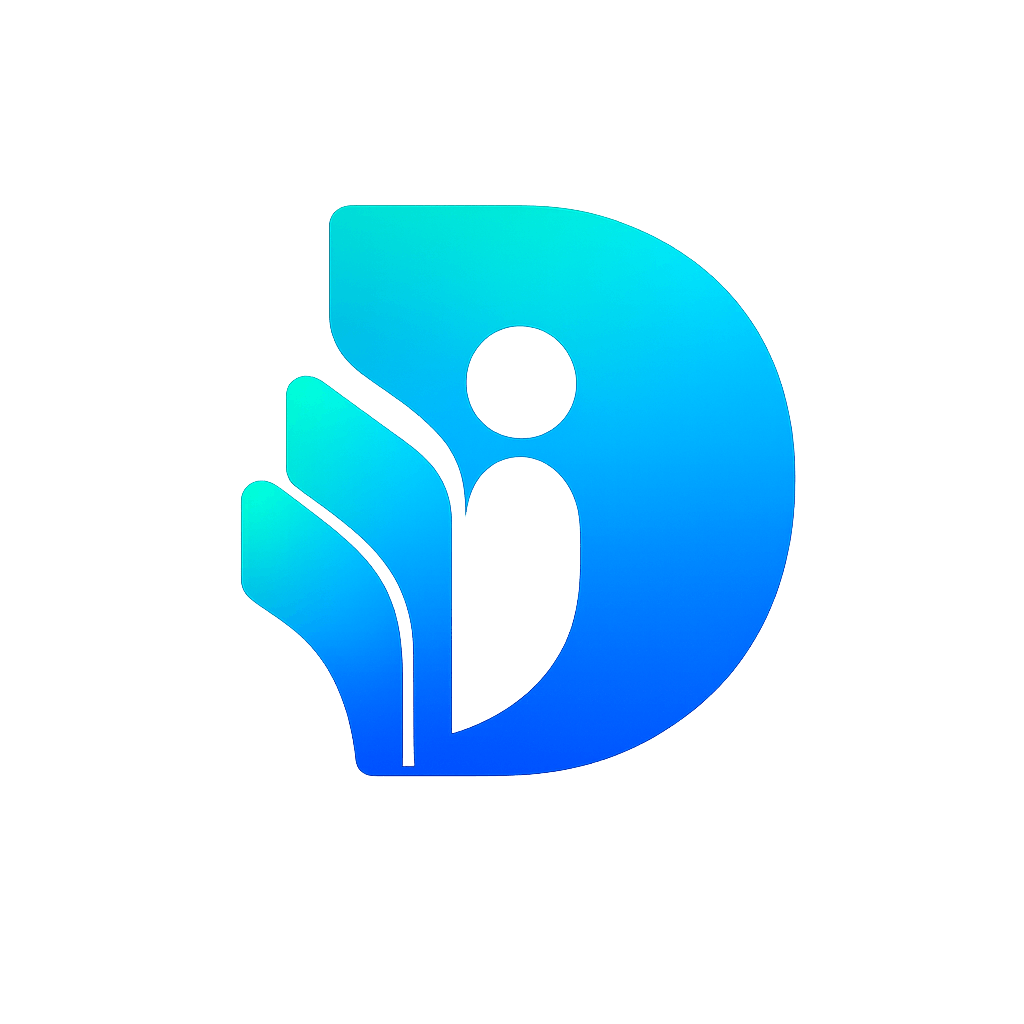
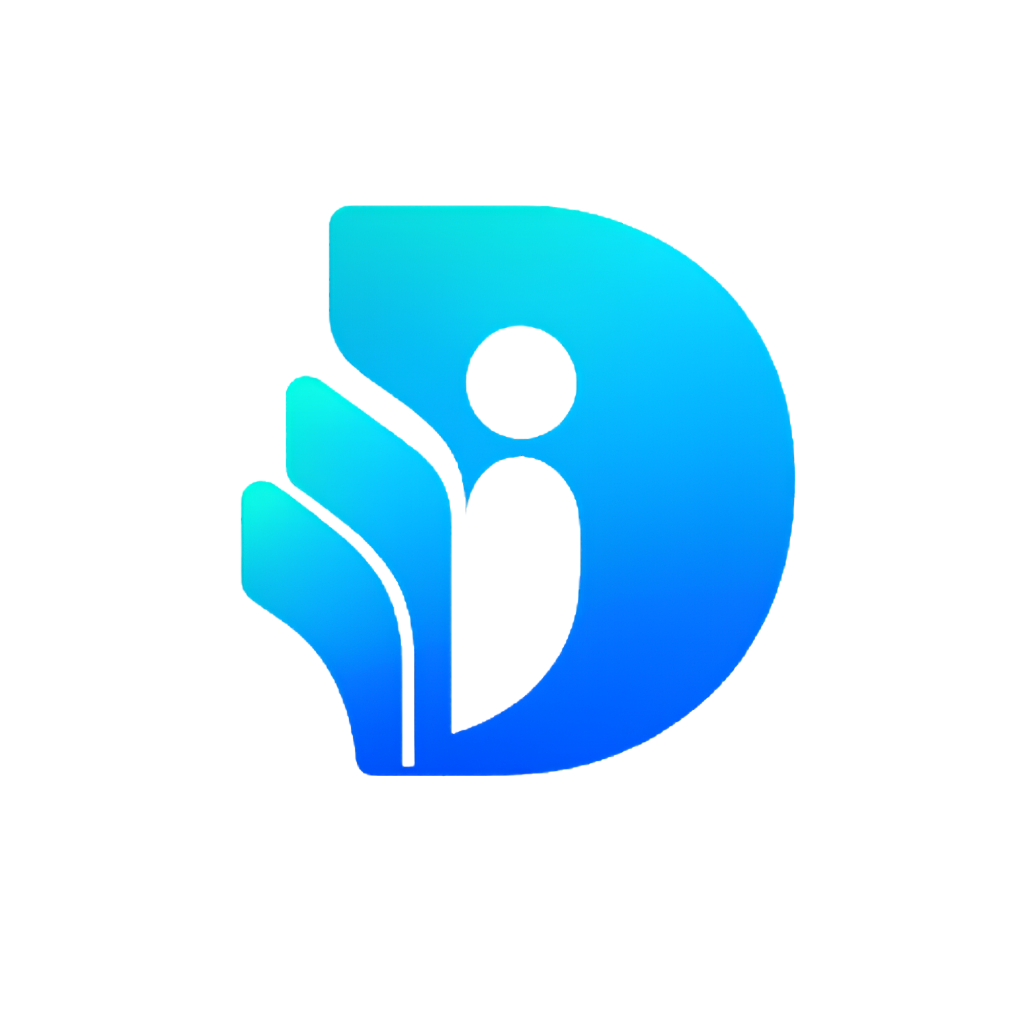
feat: update admin and warga layouts with new tab styles and pressable buttons

diff --git a/src/app/(admin)/_layout.tsx b/src/app/(admin)/_layout.tsx
@@ -1,27 +1,40 @@
 import { Tabs } from 'expo-router';
+import { PlatformPressable } from 'expo-router/build/react-navigation/elements';
 import { FiArchive, FiCheckSquare, FiGrid, FiPrinter, FiUser } from 'react-icons/fi';
 
 import { ReactIcon } from '@/components/digiwa';
 import { RoleGuard } from '@/components/RoleGuard';
-import { colors, radius, spacing } from '@/constants/theme';
+import { colors } from '@/constants/theme';
 
 export default function AdminTabsLayout() {
   return (
     <RoleGuard role="admin">
-      <Tabs
+<Tabs
         screenOptions={{
-          headerShown: false,
+          headerShown: true,
+          sceneStyle: {
+            backgroundColor: colors.primaryLight,
+          },
           tabBarActiveTintColor: colors.primary,
           tabBarInactiveTintColor: colors.neutral,
-          tabBarLabelStyle: { fontWeight: '800', fontSize: 11 },
+          tabBarButton: ({ children, android_ripple, ...props }: any) => (
+            <PlatformPressable
+              {...props}
+              pressOpacity={1}
+              android_ripple={{
+                color: colors.neutral,
+                borderless: true,
+                ...(android_ripple ?? {}),
+              }}
+            >
+              {children}
+            </PlatformPressable>
+          ),
+          tabBarLabelStyle: { fontWeight: '800', fontSize: 10 },
           tabBarStyle: {
-            backgroundColor: colors.surface,
-            borderTopColor: colors.border,
-            borderTopWidth: 1,
-            minHeight: 70,
-            paddingTop: spacing.xs,
-            borderTopLeftRadius: radius.lg,
-            borderTopRightRadius: radius.lg,
+            backgroundColor: colors.primaryLight,
+            elevation: 0,
+            minHeight: 60,
           },
         }}
       >

diff --git a/src/app/(warga)/_layout.tsx b/src/app/(warga)/_layout.tsx
@@ -1,27 +1,40 @@
 import { Tabs } from 'expo-router';
+import { PlatformPressable } from 'expo-router/build/react-navigation/elements';
 import { FiBell, FiFileText, FiHome, FiList, FiUser } from 'react-icons/fi';
 
 import { ReactIcon } from '@/components/digiwa';
 import { RoleGuard } from '@/components/RoleGuard';
-import { colors, radius, spacing } from '@/constants/theme';
+import { colors } from '@/constants/theme';
 
 export default function WargaTabsLayout() {
   return (
     <RoleGuard role="warga">
       <Tabs
         screenOptions={{
-          headerShown: false,
+          headerShown: true,
+          sceneStyle: {
+            backgroundColor: colors.primaryLight,
+          },
           tabBarActiveTintColor: colors.primary,
           tabBarInactiveTintColor: colors.neutral,
-          tabBarLabelStyle: { fontWeight: '800', fontSize: 11 },
+          tabBarButton: ({ children, android_ripple, ...props }: any) => (
+            <PlatformPressable
+              {...props}
+              pressOpacity={1}
+              android_ripple={{
+                color: colors.neutral,
+                borderless: true,
+                ...(android_ripple ?? {}),
+              }}
+            >
+              {children}
+            </PlatformPressable>
+          ),
+          tabBarLabelStyle: { fontWeight: '800', fontSize: 10 },
           tabBarStyle: {
-            backgroundColor: colors.surface,
-            borderTopColor: colors.border,
-            borderTopWidth: 1,
-            minHeight: 70,
-            paddingTop: spacing.xs,
-            borderTopLeftRadius: radius.lg,
-            borderTopRightRadius: radius.lg,
+            backgroundColor: colors.primaryLight,
+            elevation: 0,
+            minHeight: 60,
           },
         }}
       >